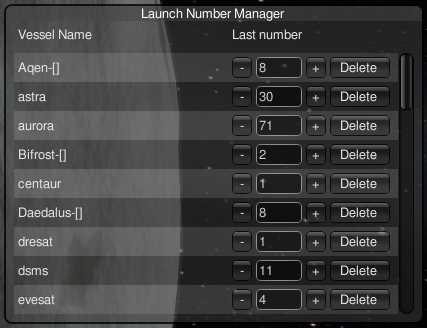
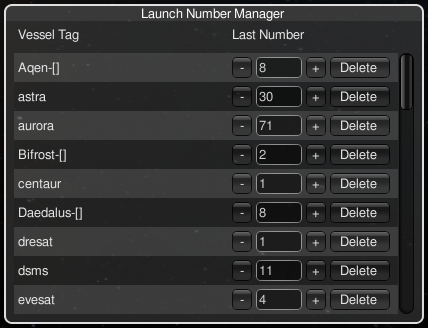
Add separation template system and extract ProcessTag
- Extract ProcessTag() to eliminate duplication between launch
  and separation renaming
- Add LaunchNumberTemplate PartModule with Edit Template button
  in VAB for command modules
- Inject template module onto all command-capable parts at game start
- Handle separation via decoupler, separator, and undocking events
- Allow literal template names (without [tag]) as vessel names
- Update README with Separable Vessels section and screenshots

diff --git a/LaunchNumbering/LaunchNumberer.cs b/LaunchNumbering/LaunchNumberer.cs
@@ -20,12 +20,17 @@ namespace LaunchNumbering
 			Instance = this;
 			_numbering = new Dictionary<string, int>();
 			GameEvents.OnVesselRollout.Add(RenameVessel);
+			GameEvents.onPartDeCoupleNewVesselComplete.Add(OnDeCoupleNewVesselComplete);
+			GameEvents.onPartUndockComplete.Add(OnUndockComplete);
 		}
 
 		public void OnDestroy()
 		{
 			GameEvents.OnVesselRollout.Remove(RenameVessel);
+			GameEvents.onPartDeCoupleNewVesselComplete.Remove(OnDeCoupleNewVesselComplete);
+			GameEvents.onPartUndockComplete.Remove(OnUndockComplete);
 		}
+
 
 		private const string TopLevelNodeLabel = "LAUNCHNUMBERS";
 		private const string SeriesNodeLabel = "VESSELS";
@@ -66,34 +71,76 @@ namespace LaunchNumbering
 				_numbering.Remove(key);
 		}
 
+		private void OnDeCoupleNewVesselComplete(Vessel oldVessel, Vessel newVessel)
+		{
+			if (newVessel != null)
+				ApplyTemplate(newVessel);
+		}
+
+		private void OnUndockComplete(Part p)
+		{
+			if (p != null && p.vessel != null)
+				ApplyTemplate(p.vessel);
+		}
+
+		private void ApplyTemplate(Vessel v)
+		{
+			foreach (var part in v.parts)
+			{
+				var template = part.GetComponent<LaunchNumberTemplate>();
+				if (template == null || template.used || string.IsNullOrEmpty(template.templateName))
+					continue;
+
+				string newName = ProcessTag(template.templateName) ?? template.templateName;
+
+				v.vesselName = newName;
+				template.used = true;
+
+				ScreenMessages.PostScreenMessage("New vessel: " + newName, MessageDisplayLength, ScreenMessageStyle.UPPER_CENTER);
+				break;
+			}
+		}
+
 		public void RenameVessel(ShipConstruct sc)
 		{
 			Vessel v = FlightGlobals.ActiveVessel;
-			var vesselNumber = 1;
 
 			string vname = v.vesselName;
 			if (vname.Contains("#"))
 				vname = Regex.Replace(vname, "#.*$", "");
 
-			string pattern = "\\[(\\w*)\\]";
-			Match m = Regex.Match(vname, pattern);
-			if (!m.Success)
+			string newName = ProcessTag(vname);
+			if (newName == null)
 				return;
+
+			v.vesselName = newName;
+			ScreenMessages.PostScreenMessage("Launch: " + newName, MessageDisplayLength, ScreenMessageStyle.UPPER_CENTER);
+		}
+
+		private string ProcessTag(string input)
+		{
+			string pattern = "\\[(\\w*)\\]";
+			Match m = Regex.Match(input, pattern);
+			if (!m.Success)
+				return null;
 
 			string key = m.Groups[1].ToString();
 			if (key == "")
-				key = vname;
+				key = input;
 
-			if (_numbering.ContainsKey(key)) {
-				vesselNumber = _numbering[key] + 1;
-				_numbering[key] = vesselNumber;
-			} else {
+			int number;
+			if (_numbering.ContainsKey(key))
+			{
+				number = _numbering[key] + 1;
+				_numbering[key] = number;
+			}
+			else
+			{
 				_numbering.Add(key, 1);
+				number = 1;
 			}
 
-			string newName = Regex.Replace(vname, pattern, vesselNumber.ToString());
-			v.vesselName = newName;
-			ScreenMessages.PostScreenMessage("Launch: " + newName, MessageDisplayLength, ScreenMessageStyle.UPPER_CENTER);
+			return Regex.Replace(input, pattern, number.ToString());
 		}
 	}
 }

diff --git a/LaunchNumbering/LaunchNumberTemplate.cs b/LaunchNumbering/LaunchNumberTemplate.cs
@@ -1,0 +1,65 @@
+using UnityEngine;
+
+namespace LaunchNumbering
+{
+    public class LaunchNumberTemplate : PartModule
+    {
+        [KSPField(isPersistant = true)]
+        public string templateName = "";
+
+        [KSPField(isPersistant = true)]
+        public bool used = false;
+
+        [KSPEvent(guiActiveEditor = true, guiName = "Edit Template")]
+        public void EditTemplate()
+        {
+            _editBuffer = templateName;
+            _editing = true;
+            _editRect = new Rect(Screen.width / 2f - 125f, Screen.height / 2f - 40f, 250f, 80f);
+        }
+
+        public override void OnStart(StartState state)
+        {
+            UpdateButtonLabel();
+        }
+
+        private void UpdateButtonLabel()
+        {
+            Events["EditTemplate"].guiName = string.IsNullOrEmpty(templateName)
+                ? "Edit Template"
+                : "Edit Template: " + templateName;
+        }
+
+        private bool _editing;
+        private string _editBuffer;
+        private Rect _editRect;
+
+        public void OnGUI()
+        {
+            if (!_editing || !HighLogic.LoadedSceneIsEditor)
+                return;
+
+            _editRect = GUI.Window(GetInstanceID(), _editRect, EditWindow, "Launch Template");
+        }
+
+        private void EditWindow(int id)
+        {
+            GUILayout.BeginVertical();
+            _editBuffer = GUILayout.TextField(_editBuffer, GUILayout.Width(220));
+            GUILayout.Space(4);
+            GUILayout.BeginHorizontal();
+            if (GUILayout.Button("OK", GUILayout.Width(70)))
+            {
+                templateName = _editBuffer;
+                UpdateButtonLabel();
+                _editing = false;
+            }
+            if (GUILayout.Button("Cancel", GUILayout.Width(70)))
+            {
+                _editing = false;
+            }
+            GUILayout.EndHorizontal();
+            GUILayout.EndVertical();
+        }
+    }
+}

diff --git a/LaunchNumbering/LaunchNumberTemplateInjector.cs b/LaunchNumbering/LaunchNumberTemplateInjector.cs
@@ -1,0 +1,26 @@
+using UnityEngine;
+
+namespace LaunchNumbering
+{
+    [KSPAddon(KSPAddon.Startup.Instantly, true)]
+    public class LaunchNumberTemplateInjector : MonoBehaviour
+    {
+        public void Start()
+        {
+            if (PartLoader.Instance != null && PartLoader.Instance.loadedParts.Count > 0)
+                InjectModules();
+            else
+                GameEvents.OnPartLoaderLoaded.Add(InjectModules);
+        }
+
+        private void InjectModules()
+        {
+            GameEvents.OnPartLoaderLoaded.Remove(InjectModules);
+            foreach (AvailablePart ap in PartLoader.Instance.loadedParts)
+            {
+                if (ap.partPrefab.Modules.Contains<ModuleCommand>())
+                    ap.partPrefab.AddModule("LaunchNumberTemplate");
+            }
+        }
+    }
+}

diff --git a/README.md b/README.md
@@ -2,7 +2,7 @@
 
 A small mod to perform automatic numbering of launch vehicles.
 
-This project is a fork of original [KSPLaunchNumbering by Damien-The-Unbeliever](https://github.com/Damien-The-Unbeliever/KSPLaunchNumbering) — a genuinely brilliant idea. Later, [linuxgurugamer](https://github.com/linuxgurugamer/KSPLaunchNumbering) took it further with a more feature-rich version, which is great in many ways too. However, I wasn't quite happy with how the numbering logic worked there, so I decided to roll my own implementation with slightly different approach.
+This project is a fork of the original [KSPLaunchNumbering by Damien-The-Unbeliever](https://github.com/Damien-The-Unbeliever/KSPLaunchNumbering) — a genuinely brilliant idea. Later, [linuxgurugamer](https://github.com/linuxgurugamer/KSPLaunchNumbering) took it further with a more feature-rich version, which is great in many ways too. However, I wasn't quite happy with how the numbering logic worked there, so I decided to roll my own implementation with a slightly different approach.
 
 The core idea is very simple: you put a `[tag]` in your vessel name, and the mod replaces it with a sequential number on each launch. I didn't want to use templates, mindblowing 'blocs', or Roman numerals. It's as simple as pie: just replace `[tag]` with a number.
 
@@ -46,13 +46,33 @@ ComSat-[comsat]#Mun network      => renames to "ComSat-2"
 ComSat-[comsat]#Duna network     => renames to "ComSat-3"
 ```
 
-As mrntioned above the comment is only visible in the editor before launch — once renamed, the vessel name becomes only what comes before `#`.
+As mentioned above, the comment is only visible in the editor before launch — once renamed, the vessel name becomes only what comes before `#`.
 
 **Important:** Because the `#` comment is part of the vessel name in the editor, vessels with different comments are treated as **separate craft files** in the VAB/SPH. For example, `Vessel-[vessel]#Duna` and `Vessel-[vessel]#Minmus` are two different ships in the editor. After rollout, the comment is stripped and both will get sequential names like `Vessel-1` and `Vessel-2`.
 
+### Separable Vessels (Multi-Satellite Launch, Mothership/Lander etc.)
+
+You can set a launch template on any command module (capsule or probe core). When a vessel containing that part separates via decoupler, separator, or undocking, the new vessel is automatically renamed according to the template. Also note that if the template doesn't contain a `[tag]`, the vessel is renamed to the literal template name without any numbering.
+
+In the VAB, right-click a command module. Click **Edit Template**:
+
+![Edit Template button](Images/edittemplate.png)
+
+Enter the desired name (with or without a `[tag]`):
+
+![Edit Template filled](Images/edittemplatefilled.png)
+
+The button then shows the current template: `Edit Template: ComSat-[]`.
+
+**Example:**
+
+Suppose you build a ship named `Apollo [apollo]` and set the template to `LM-[]` on the lander's command module. After launch, depending on current tag counters, the ship may become `Apollo 11`. Decouple the lander, and it automatically renames — for example, to `LM-5`.
+
+**Important:** The template is applied **only once**. After initial separation, the automatic renaming won't trigger again if the separated ship later docks and undocks. 
+
 ## Launch Number Manager
 
-Click the toolbar icon (![icon](GameData/LaunchNumbering/Textures/LaunchNumbering.png)) in VAB, SPH, Flight, Map View, or KSC to open the **Launch Number Manager** window.
+Click the toolbar icon in VAB, SPH, Flight, Map View, or KSC to open the **Launch Number Manager** window.
 
 The window shows all tracked tags and their last launch numbers:
 
@@ -75,7 +95,7 @@ Open the game's settings (ESC => Settings => Game Difficulty) and find the **Lau
 
 Numbering data is persisted in your save file. If you uninstall the mod, any previously numbered vessels keep their names.
 
-**Note:** This mod's save format is **not compatible** with the original mod by Damien-The-Unbeliever or the fork by linuxgurugamer. Do not switch between them mid-save — numbering data will not carry over.
+**Important:** This mod's save format is **not compatible** with the original mod by Damien-The-Unbeliever or the fork by linuxgurugamer. Do not switch between them mid-save — numbering data will not carry over.
 
 ## Installation
 
@@ -97,8 +117,8 @@ Numbering data is persisted in your save file. If you uninstall the mod, any pre
 
 ### Prerequisites
 
-- [.NET Framework 3.5 SDK](https://dotnet.microsoft.com/download/dotnet-framework/net35) (Windows) or [Mono](https://www.mono-project.com/) (Linux)
-- [MSBuild](https://github.com/dotnet/msbuild) (included with Visual Studio on Windows, or with Mono on Linux)
+- .NET Framework SDK or Mono
+- MSBuild
 - A KSP installation with `KSP_Data/Managed/` containing the required assemblies
 
 ### Setup